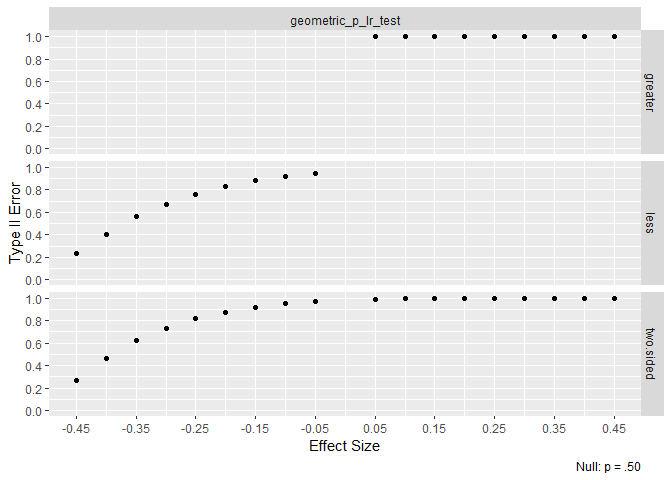
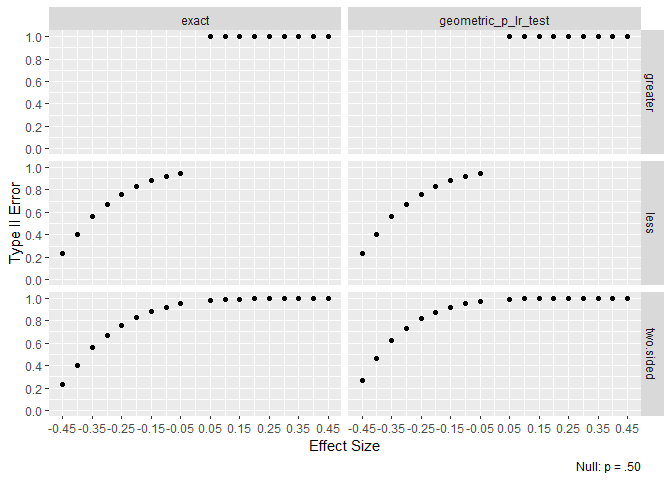
Add exact tests

diff --git a/type I/README.md b/type I/README.md
@@ -66,6 +66,8 @@ the type I error rate is .05. When the target number of successes is
 small and p is near one, the likelihood test does not have a .05 type I
 error rate. How near is too near depends on the target number of
 successes. Visually this is the bottom right corner of the first graph.
+The exact test shows poor performance in the bottom right corner but is
+always conservative.
 
 <img src="man/figures/README-negativeBonimialTypeI-1.png" width="100%" />
 
@@ -82,11 +84,13 @@ equal to 1. This suggests the geometric test will do poorly.
 
 Over the entire range of p, the likelihood ratio test has type I error
 rate far from the desired .05. Sometimes the likelihood test is liberal.
-Sometimes it is conservative.
+Sometimes it is conservative. The exact test is always below .05 but is
+not very conservative.
 
 <img src="man/figures/README-geometricTypeI-1.png" width="100%" />
 
-In the aggregate, type I error rate is below the desired .05 for two
-alternatives.
+For the likelihood ratio test, the aggregate type I error rate is below
+the desired .05 for two alternatives. The exact test is conservative for
+all alternatives.
 
 <img src="man/figures/README-geometricTypeI2-1.png" width="100%" />

diff --git a/type II/README.md b/type II/README.md
@@ -67,4 +67,7 @@ II error when the null is .50. It will never reject the null regardless
 of the data. For all alternatives it never does better than .20%. This
 test unusable.
 
+It is interesting to note the likelihood test approximation worked very
+well. The test it is approximating is unusable.
+
 <img src="man/figures/README-geometricTypeII-1.png" width="100%" />
